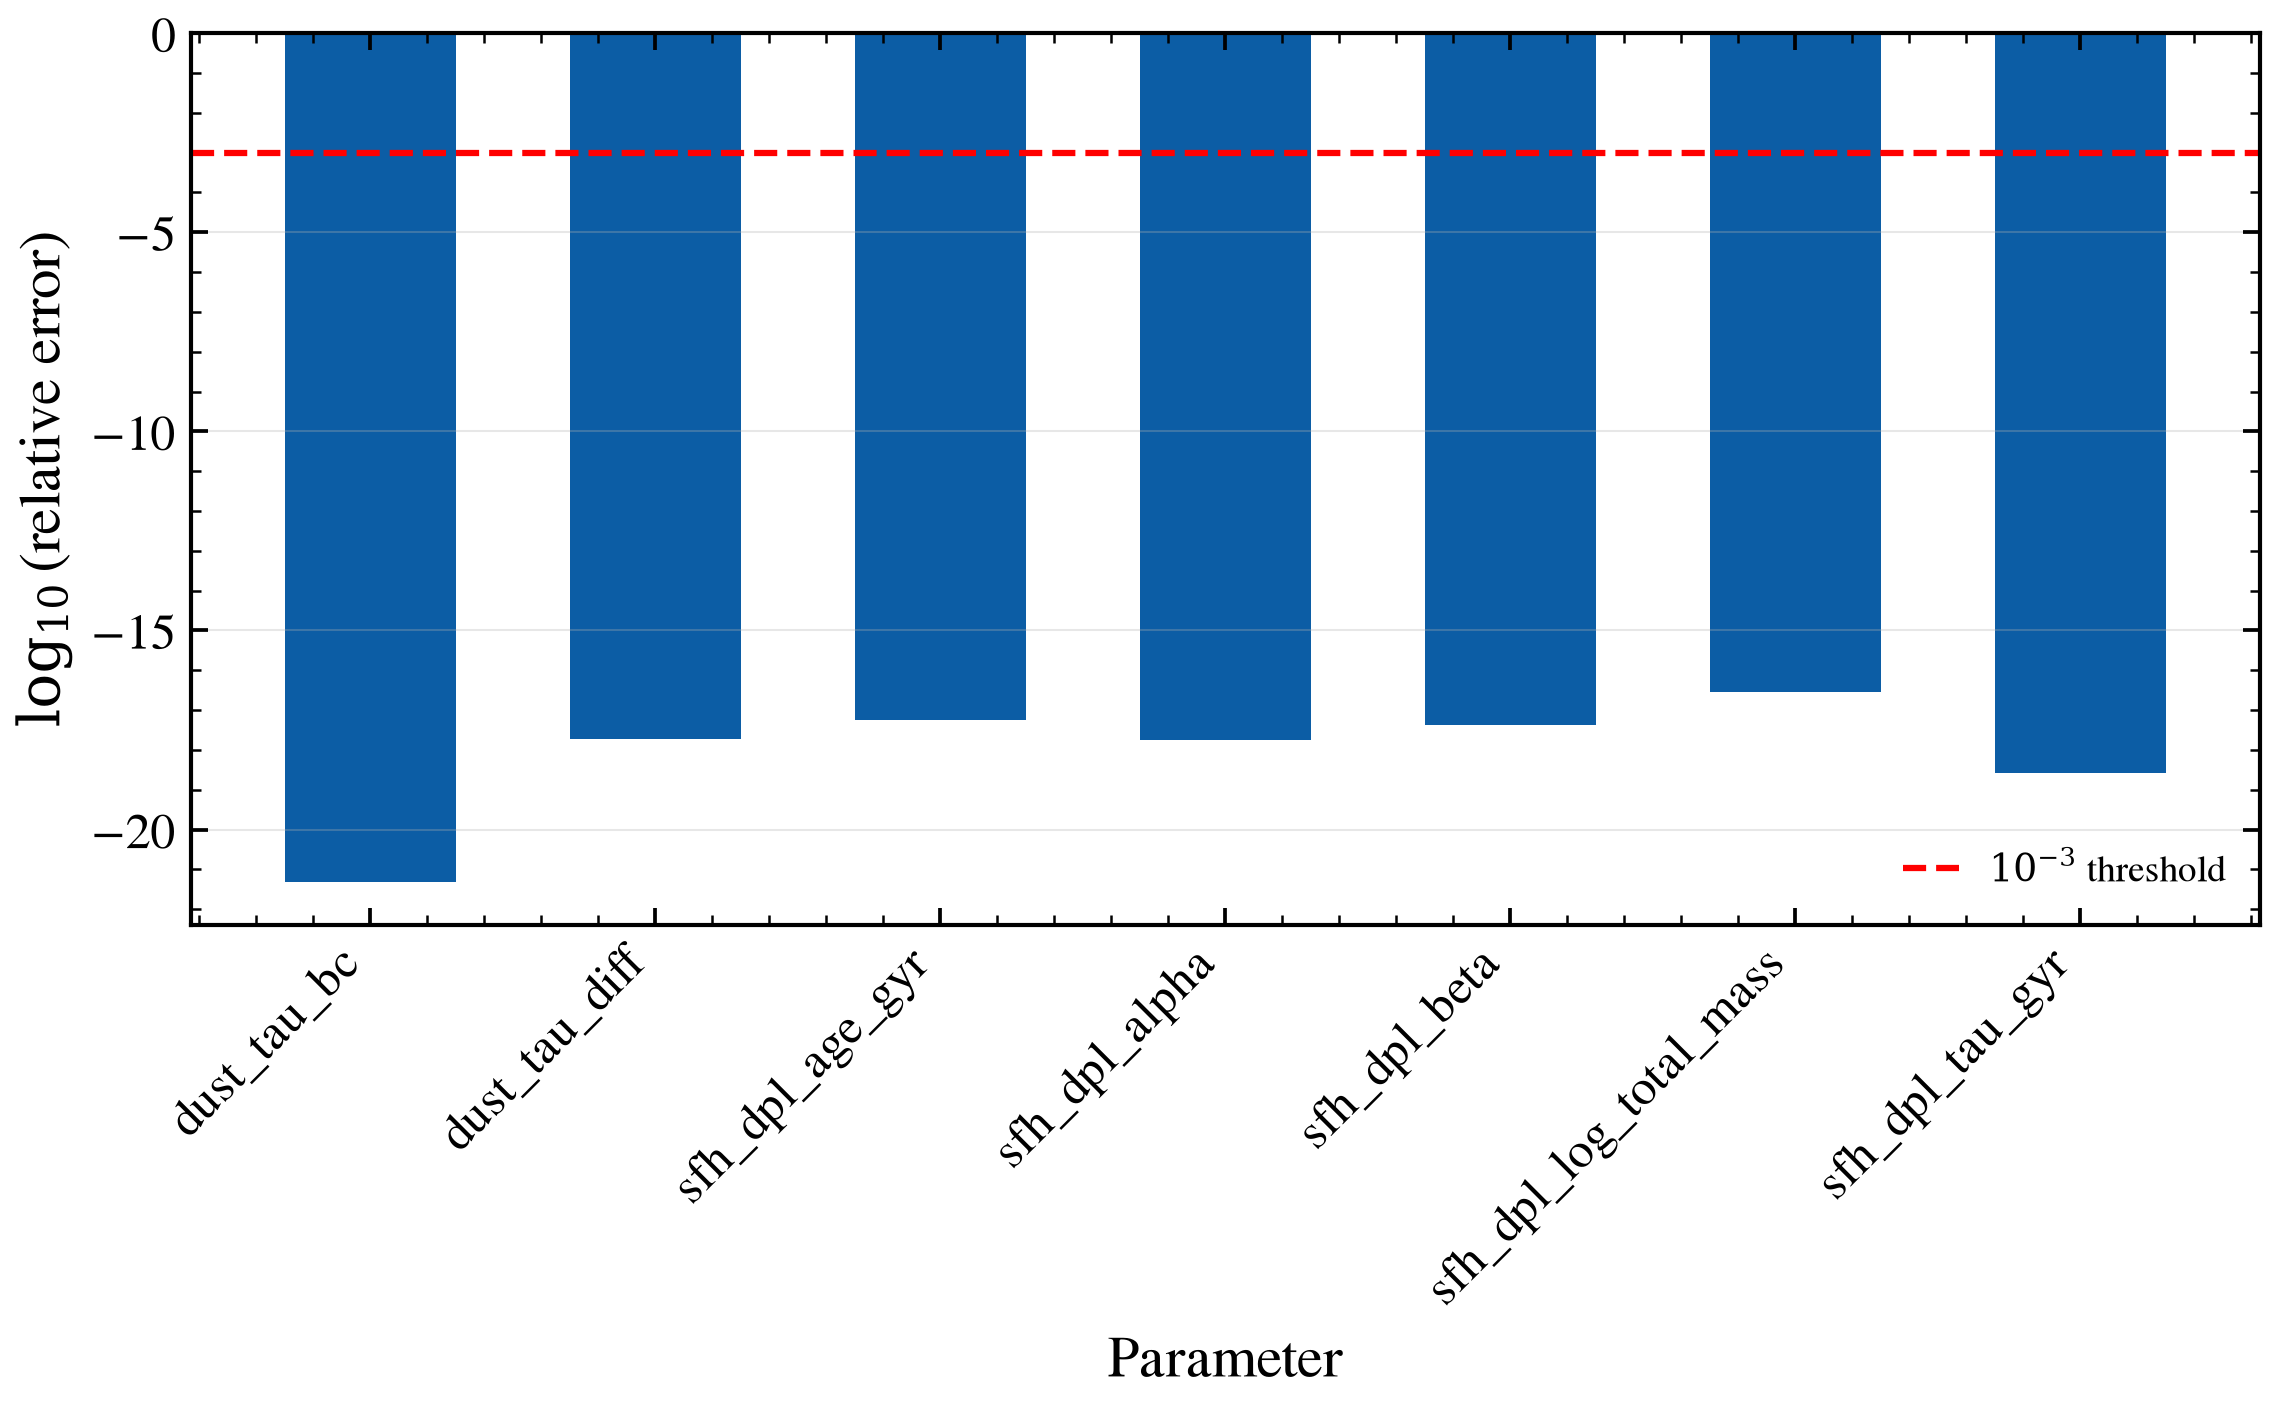
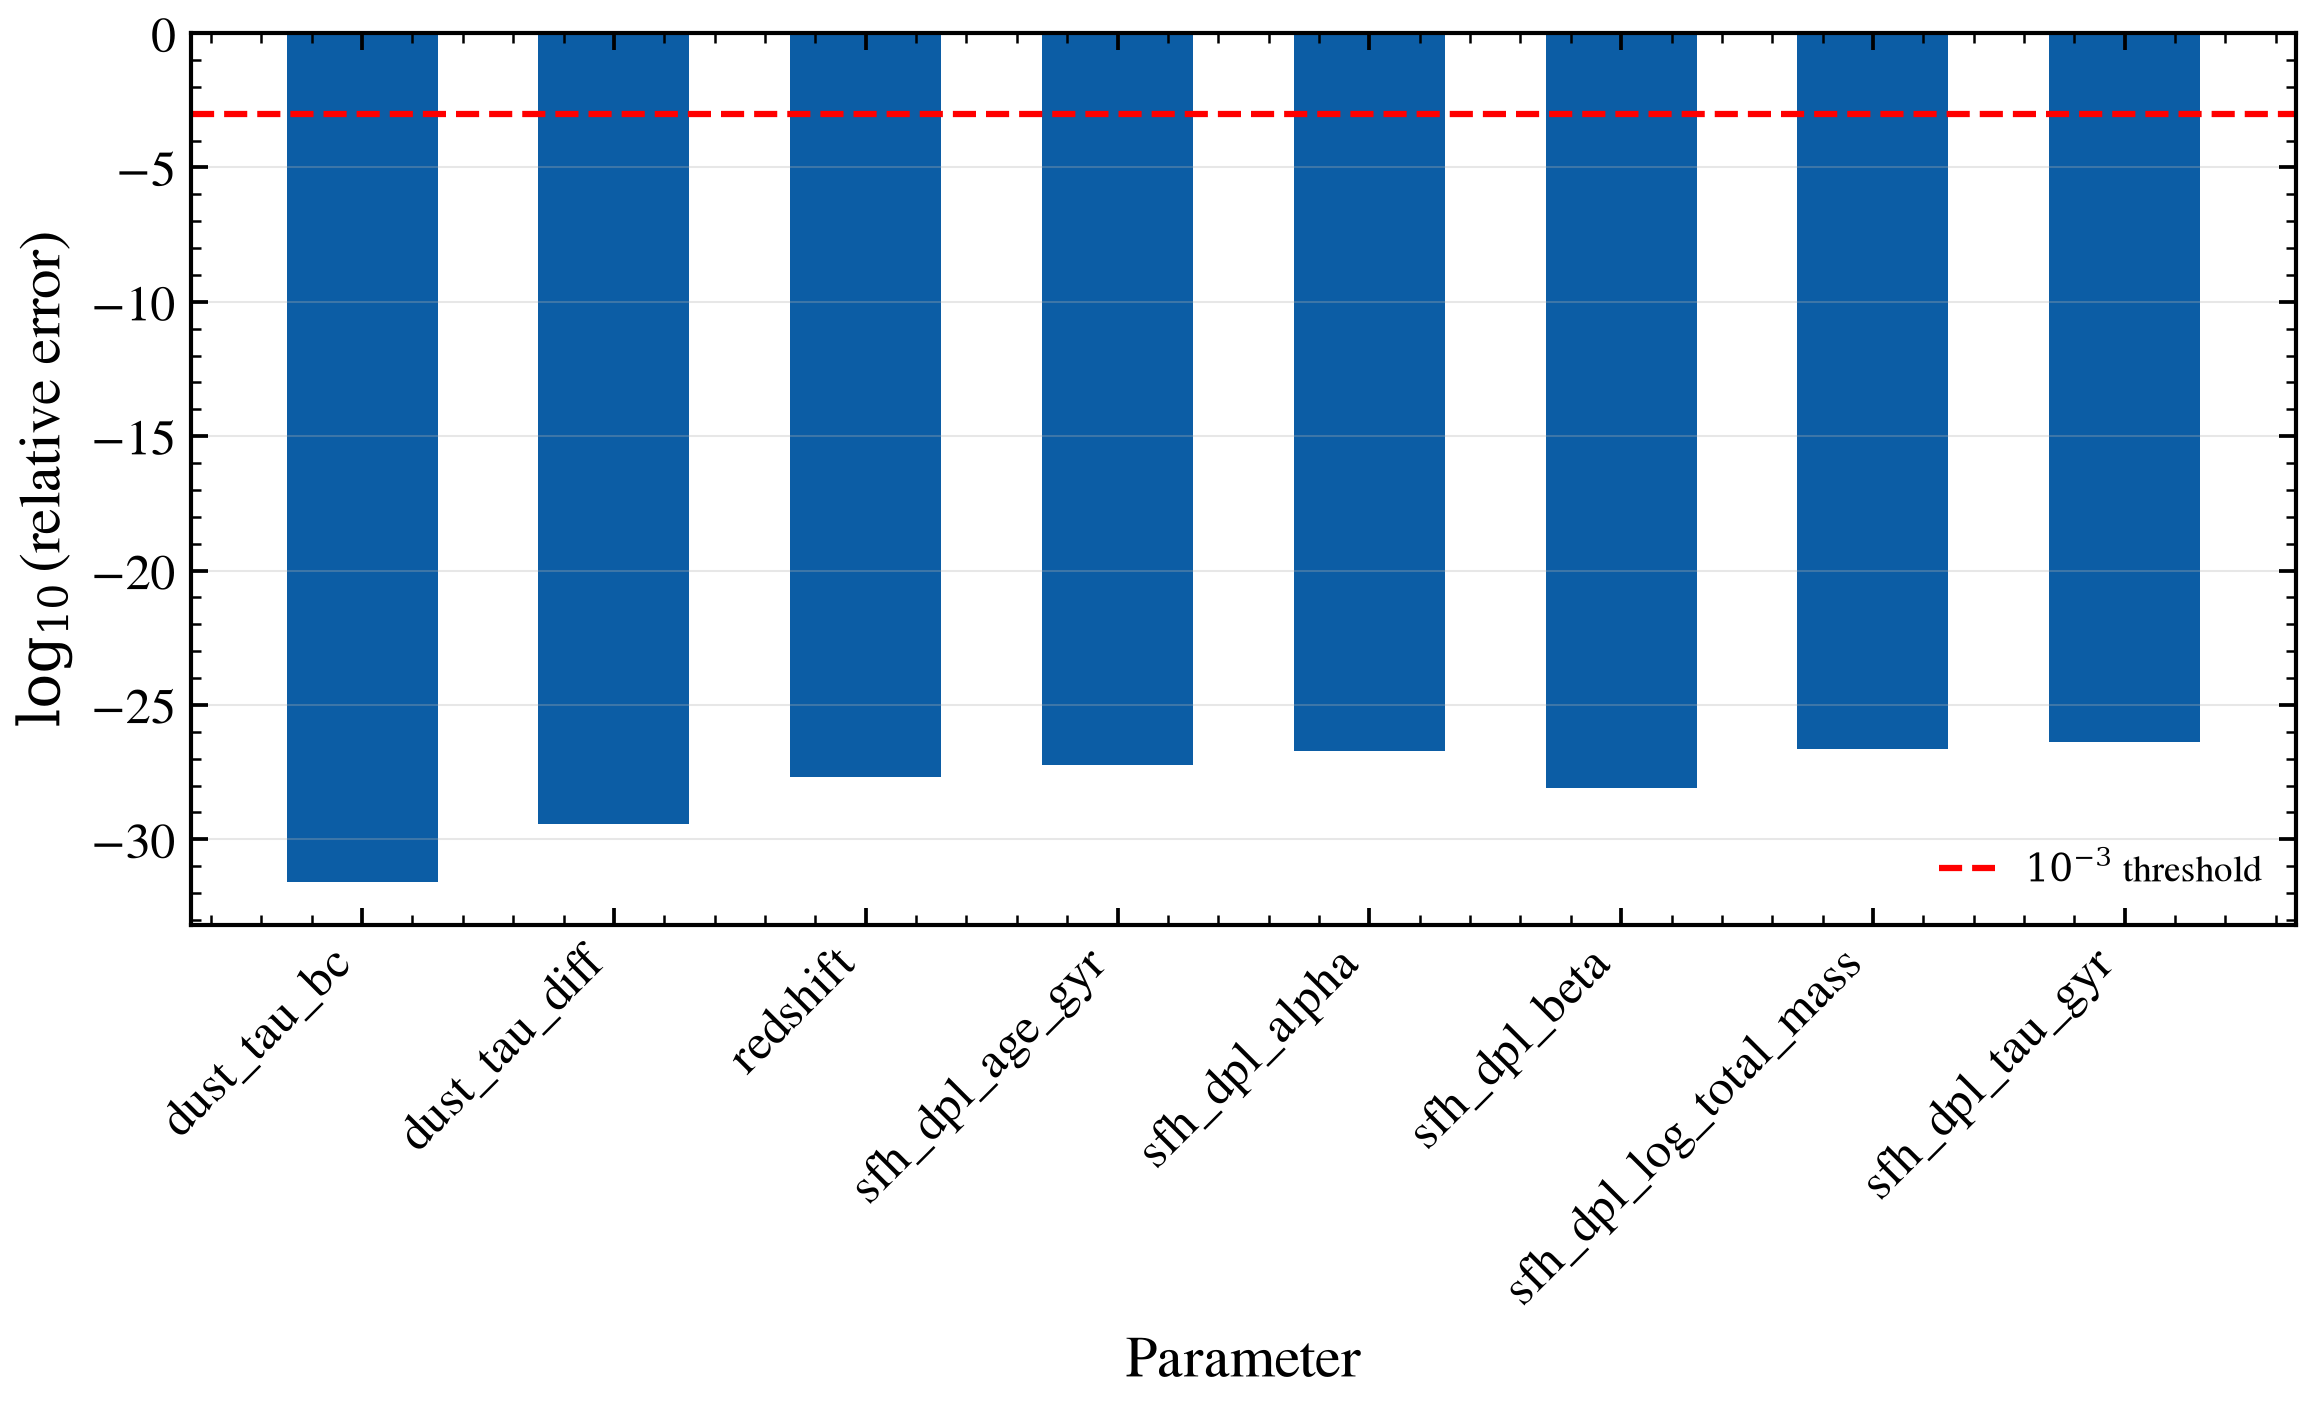
fix(tools,examples): CI follow-through for the burst prior and the redshift refusal
Two failures the branch's own changes correctly provoked:

- tools/check_param_free_priors.py kept REFUSED entries recording
  burst_sfr's old deliberately-pinned status; both parameters now carry a
  free prior, so the guard demanded the entries be dropped. Dropped.
- examples/advanced/plot_diag_gradient_finite_difference.py built with
  redshift=tengri.FREE -- the spelling that silently pinned z at 0.1, so
  the "free redshift" its prose promised never appeared in the gradient
  check. Now an explicit Uniform(0.01, 6.0); the regenerated render's
  bar chart gains the redshift row for the first time (autodiff vs
  finite difference agreement at ~1e-28), verified visually. Render
  regenerated via tools/regen_gallery.py; gallery-fresh, no-local-paths
  and traceback greps all clean.

The earlier tree-wide sweep missed this site because its grep patterns
did not cover the module-qualified tengri.FREE spelling.

Refs #2187

Claude-Session: https://claude.ai/code/session_013cWnGJZukRpygS28ssX9un

diff --git a/tools/check_param_free_priors.py b/tools/check_param_free_priors.py
@@ -91,8 +91,6 @@ REFUSED: dict[str, tuple[str, str]] = {
     "dust_f_obscuration": ("fixed-by-physics", "pre-existing decision; degenerate with tau_diff"),
     # ── target-dependent: the bound is set by the source, not by physics ──
     "dust_L_agn_ir": ("target-dependent", "absolute luminosity; no galaxy-independent scale"),
-    "sfh_snorm_burst_burst_sfr": ("target-dependent", "absolute SFR; scale set by the galaxy"),
-    "sfh_tsnorm_burst_burst_sfr": ("target-dependent", "as the snorm variant"),
     "sfh_exp_start_gyr": ("target-dependent", "onset capped by the age of the universe at z"),
     "sfh_dexp_start_gyr": ("target-dependent", "as sfh_exp_start_gyr; caught by test_bug_1031"),
     "sfh_const_start_gyr": ("target-dependent", "as sfh_exp_start_gyr"),

diff --git a/docs/auto_examples/advanced/plot_diag_gradient_finite_difference.py b/docs/auto_examples/advanced/plot_diag_gradient_finite_difference.py
@@ -43,7 +43,7 @@ model = tengri.SEDModel.build(
     },
     dust_emission={"type": "dale2014", "all_params": tengri.Fixed(tengri.DEFAULT)},
     neb={"type": "cue", "all_params": tengri.Fixed(tengri.DEFAULT)},
-    redshift=tengri.FREE,
+    redshift=tengri.Uniform(0.01, 6.0),  # Explicit prior required since #2187
 )
 
 # Generate synthetic observed photometry

diff --git a/examples/advanced/plot_diag_gradient_finite_difference.py b/examples/advanced/plot_diag_gradient_finite_difference.py
@@ -43,7 +43,7 @@ model = tengri.SEDModel.build(
     },
     dust_emission={"type": "dale2014", "all_params": tengri.Fixed(tengri.DEFAULT)},
     neb={"type": "cue", "all_params": tengri.Fixed(tengri.DEFAULT)},
-    redshift=tengri.FREE,
+    redshift=tengri.Uniform(0.01, 6.0),  # Explicit prior required since #2187
 )
 
 # Generate synthetic observed photometry

diff --git a/docs/auto_examples/advanced/plot_diag_gradient_finite_difference.rst b/docs/auto_examples/advanced/plot_diag_gradient_finite_difference.rst
@@ -41,7 +41,7 @@ parameter. A mismatch (>1e-3) indicates a non-differentiable operation.
 
  .. code-block:: none
 
-    /tengri/src/tengri/forward/sed_model.py:9156: WildcardPartialFreeWarning: sfh={'all_params': FREE} no longer frees metallicity parameters when there is no explicit met block. Before this change, met_logzsol (and other met_* params) were freed by the sfh wildcard.
+    /tengri/src/tengri/forward/sed_model.py:9272: WildcardPartialFreeWarning: sfh={'all_params': FREE} no longer frees metallicity parameters when there is no explicit met block. Before this change, met_logzsol (and other met_* params) were freed by the sfh wildcard.
 
     To free metallicity parameters explicitly, pass either:
       met={'all_params': FREE}
@@ -50,7 +50,7 @@ parameter. A mismatch (>1e-3) indicates a non-differentiable operation.
 
     Issue #1796
       spec = parse_groups(**groups)
-    /tengri/src/tengri/forward/sed_model.py:9156: WildcardPartialFreeWarning: 'all_params: FREE' freed 2 of 3 parameters in group 'dust_attenuation'. These have no declared prior, only Fixed defaults, so they stay pinned:
+    /tengri/src/tengri/forward/sed_model.py:9272: WildcardPartialFreeWarning: 'all_params: FREE' freed 2 of 3 parameters in group 'dust_attenuation'. These have no declared prior, only Fixed defaults, so they stay pinned:
       dust_f_obscuration
     The fit will run with that physics held constant. Pass explicit priors for the ones you meant to vary, e.g. dust_attenuation={'dust_f_obscuration': Uniform(lo, hi)}, or filter WildcardPartialFreeWarning if this is deliberate.
       spec = parse_groups(**groups)
@@ -99,7 +99,7 @@ parameter. A mismatch (>1e-3) indicates a non-differentiable operation.
         },
         dust_emission={"type": "dale2014", "all_params": tengri.Fixed(tengri.DEFAULT)},
         neb={"type": "cue", "all_params": tengri.Fixed(tengri.DEFAULT)},
-        redshift=tengri.FREE,
+        redshift=tengri.Uniform(0.01, 6.0),  # Explicit prior required since #2187
     )
 
     # Generate synthetic observed photometry
@@ -164,7 +164,7 @@ parameter. A mismatch (>1e-3) indicates a non-differentiable operation.
 
 .. rst-class:: sphx-glr-timing
 
-   **Total running time of the script:** (0 minutes 4.052 seconds)
+   **Total running time of the script:** (0 minutes 3.440 seconds)
 
 
 .. _sphx_glr_download_auto_examples_advanced_plot_diag_gradient_finite_difference.py:
